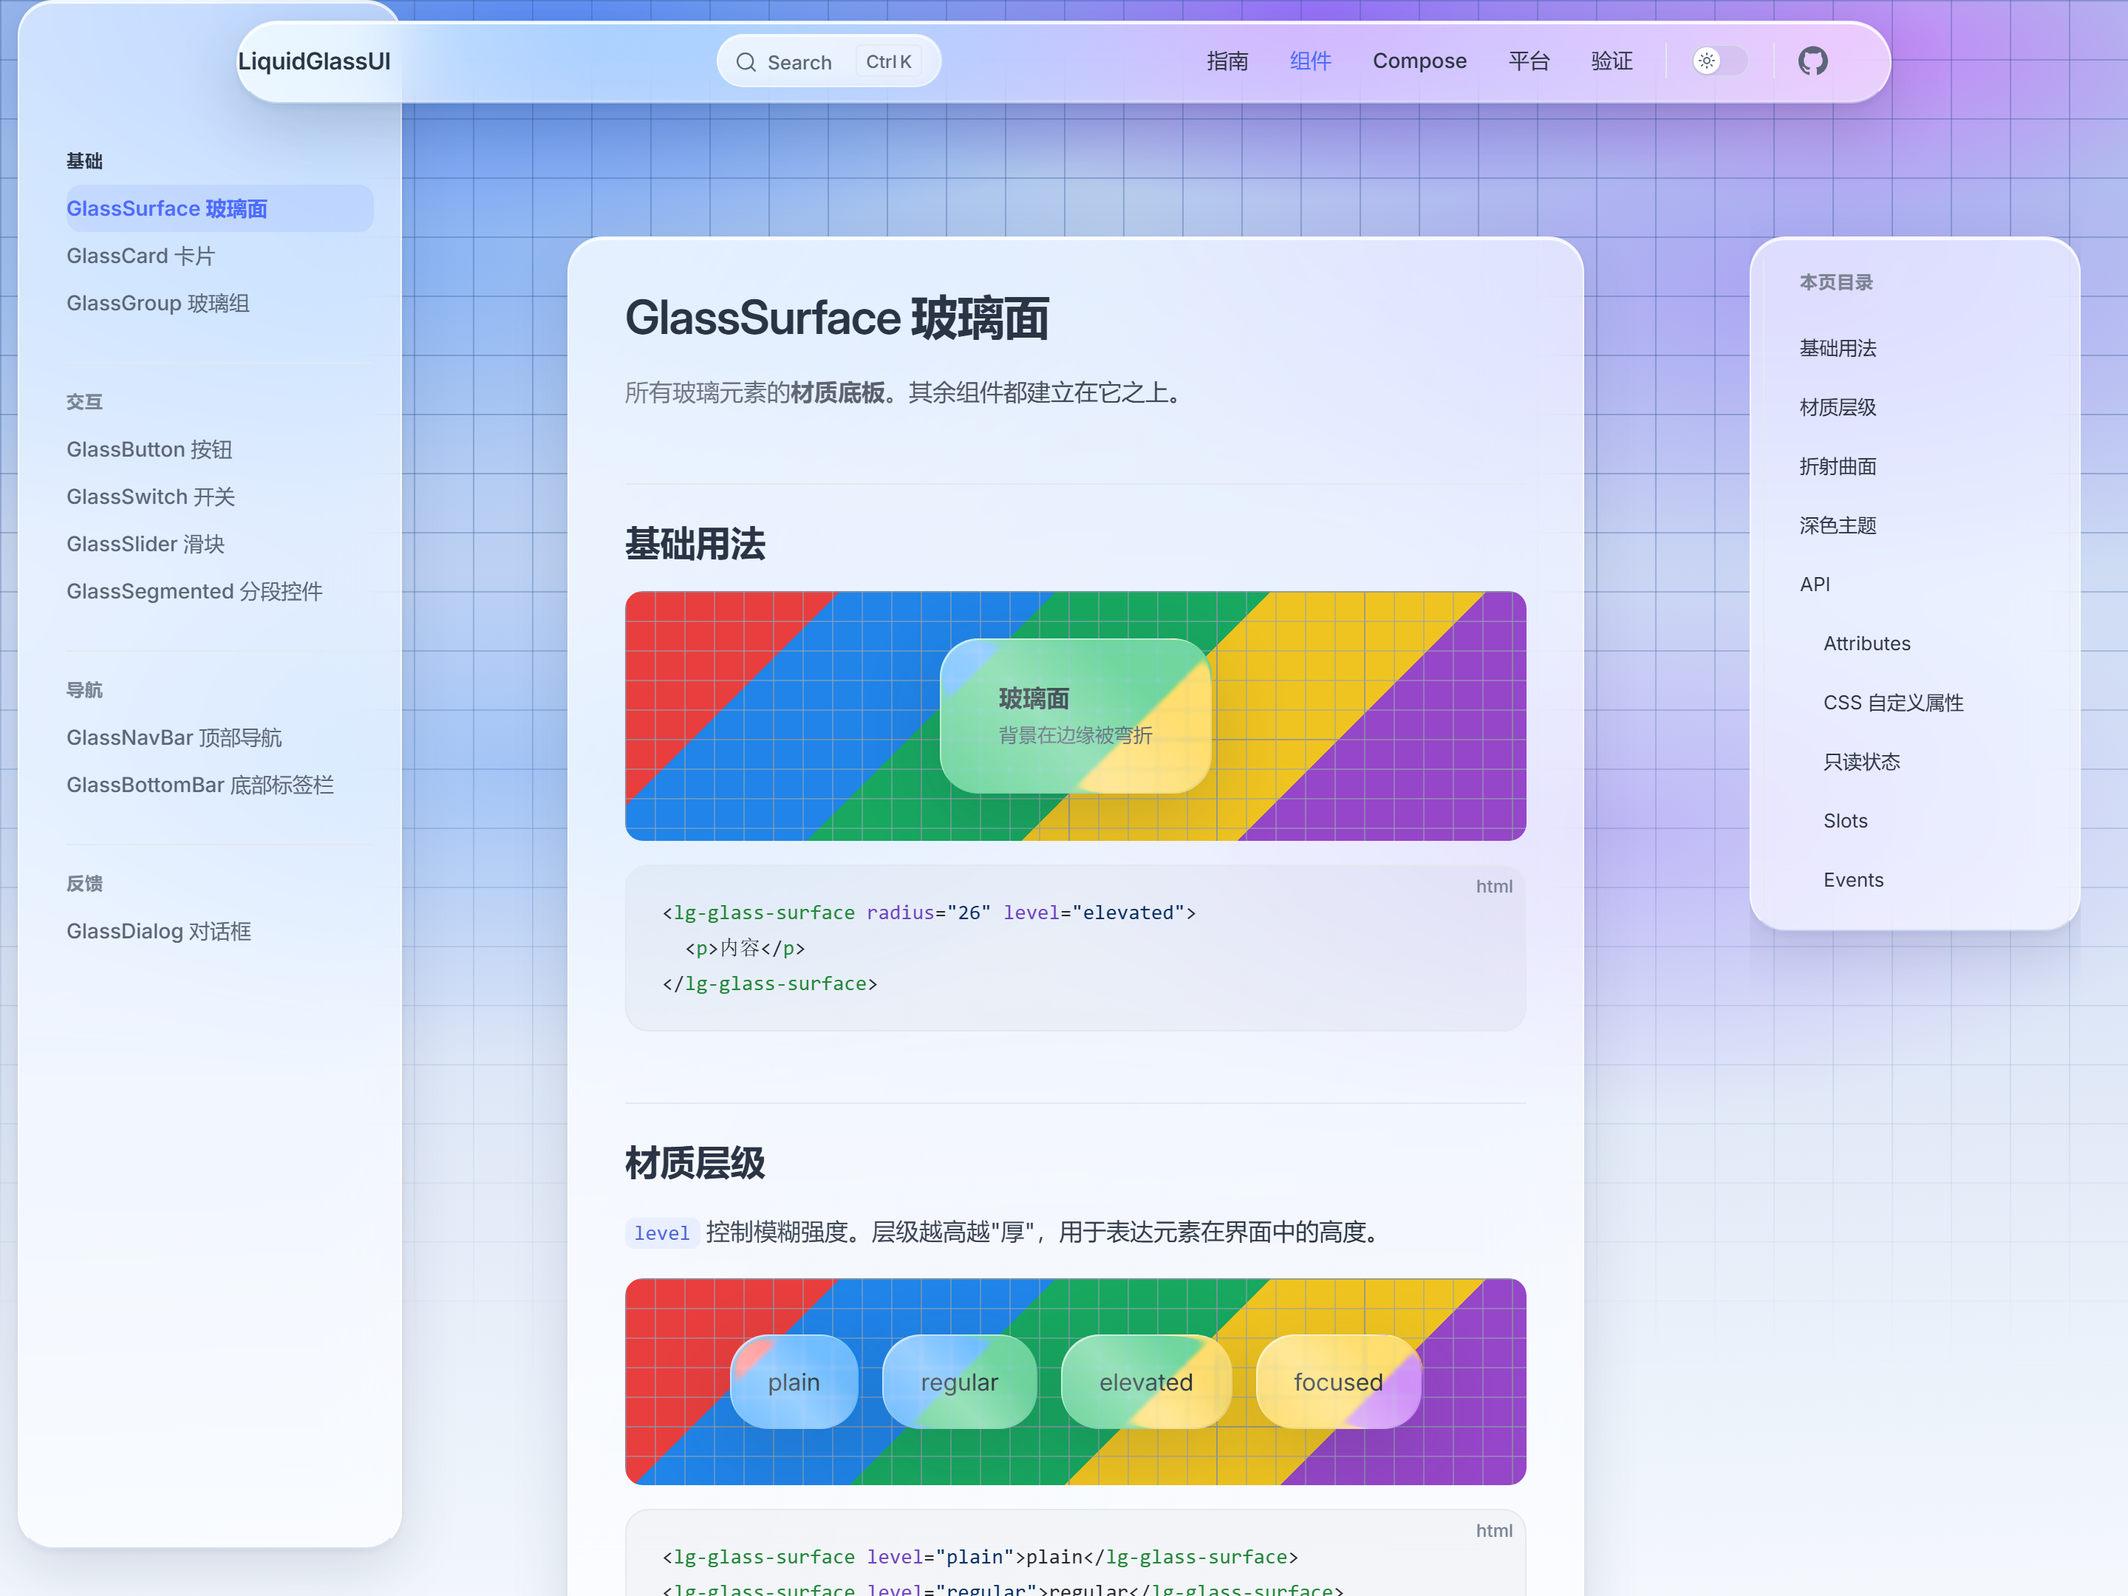
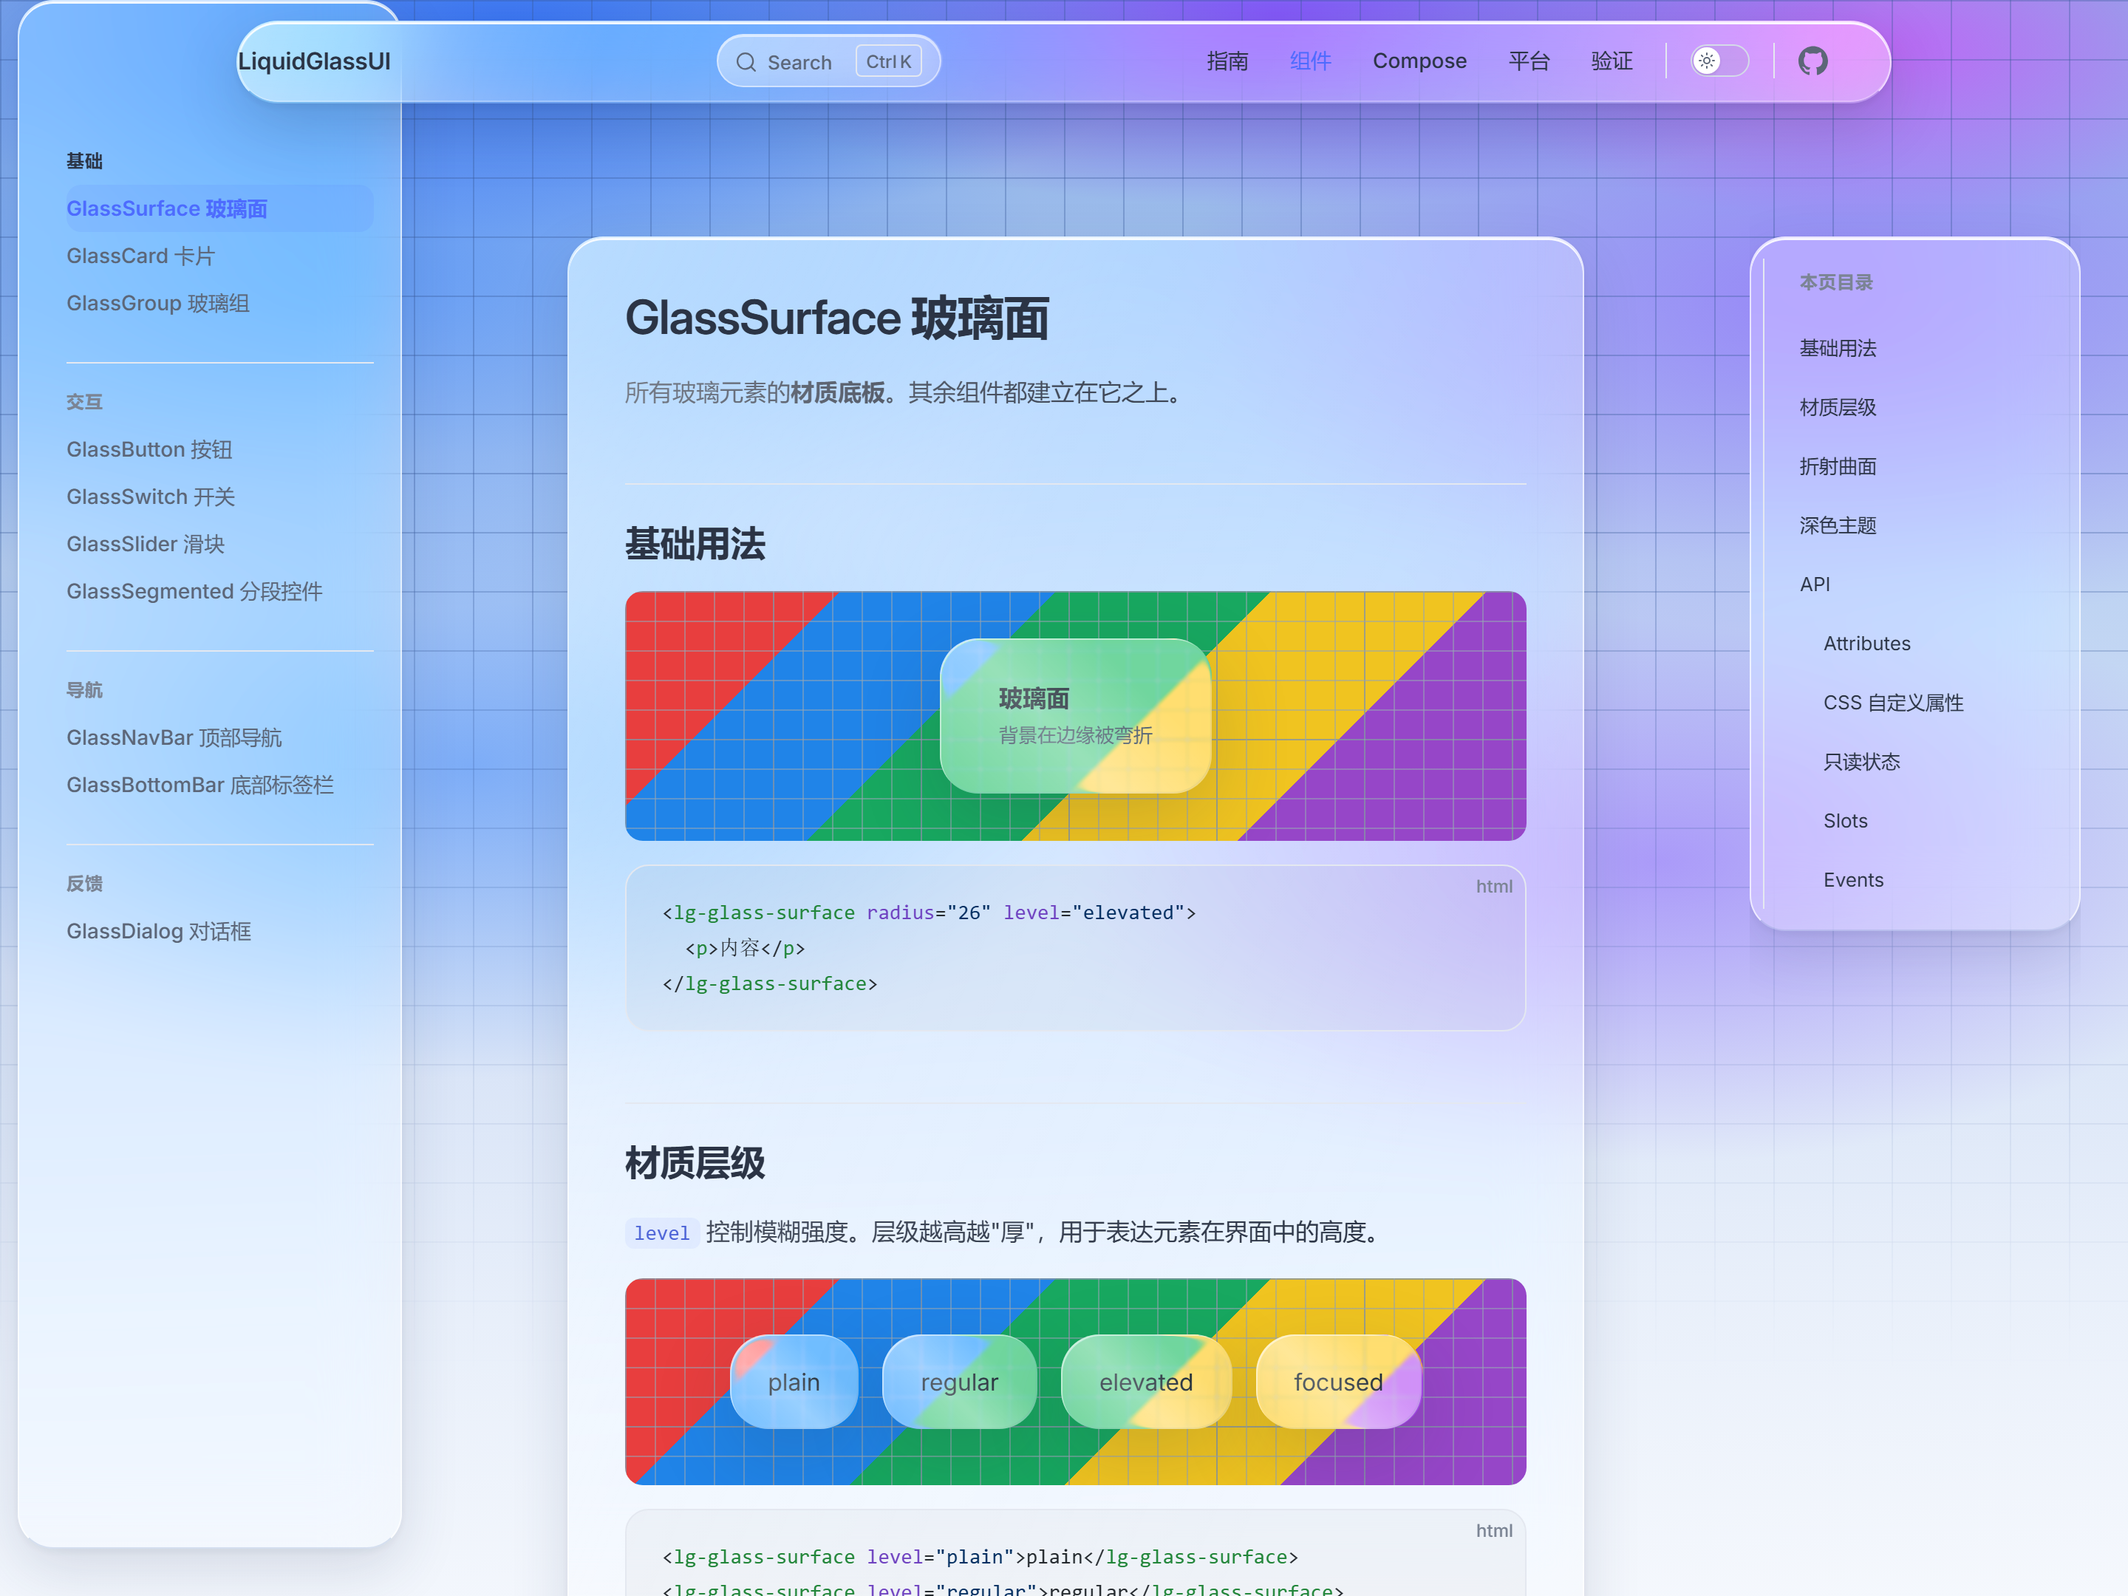
style(docs): 玻璃填充降至图二水平，背景提饱和使色彩真正透出
用户提供了 UI 参考图（图二），要求卡片与导航栏采用该风格：
低填充磨砂玻璃 + 强模糊 + 边缘高光，背景色明显透出。

## 改动
按图二的配方调整（参考值 rgba(255,255,255,0.22) / blur 16–24px / saturate 180%）：
- 导航填充 0.50 → **0.24**
- 面板填充（正文/侧栏/目录/首页卡片）0.62 → **0.30**
- 模糊 22px/28px → **24–26px saturate(180–185%)**
- 搜索框 0.42 → **0.20**，blur 12px
- 边缘高光加强（inset 0 1.5px 0 rgba(255,255,255,0.90)）
- 背景饱和度提高（蓝 → 紫更浓），暗色同步

## 关键：只降填充不够，背景必须够饱和
第一次只降填充，视觉复核仍说「背景色透不出来」——
因为**背景本身不够饱和**。低填充玻璃只是「让背景透过来」，
透过来的若是一片淡色，等于什么都没透。

三处必须同时成立：背景高饱和 + 网格穿过玻璃区 + 填充足够低。
图二的背景是高饱和色块；本站保持冷色单色系（蓝→紫），
不用图二的红/绿/黄，避免破坏站点调性。

## 图一的问题：当前版本已不复现（实测）
用户标注的「侧栏文字截断」实测未复现：
- 三个视口（1440/1280/1100）下 `scrollWidth === clientWidth`，无裁剪
- 文字完整显示「快速开始 / 设计原则 / 降级策略」
- 条目全在面板内（最后条目底 285 < 面板底 868），无需滚动

推测图一来自更早的版本，或截图时字体未加载完。
那次统一性改造（把侧栏从贴边改为浮动面板 + 内边距）已顺带修掉。

## 验证（全部实测）
- 视觉复核评级 **Strong**：半透明、背景透色、模糊、边缘高光、文字可读
  五项全部达成（导航色相横向变化明显，TOC 有紫/粉变化）
- 对比度：浅色 4.43–11.21:1，暗色 14.42–14.94:1，全部达标
  （低填充后必须重测，这是唯一的风险点）
- 侧栏文字无裁剪、条目无越界、目录与正文对齐
- 全站 33 页：无控制台错误、组件全部升级、组件页均有 API 表格

diff --git a/docs/site/.vitepress/theme/custom.css b/docs/site/.vitepress/theme/custom.css
@@ -52,36 +52,35 @@
    ============================================================ */
 
 /**
- * ⚠ 色彩分布是**刻意设计**的。
+ * ⚠ 色彩饱和度是**刻意调高**的（参照图二）。
  *
- * 实测教训（像素级验证）：
- *  - 导航内像素 (195,219,255) 几乎是**均匀一片**，网格在那里不可见
- *  - 模糊一片纯色 = 什么都没做，视觉上就是一坨半透明白
+ * 实测教训：玻璃填充降到 0.24–0.30 后，视觉复核仍说「背景色透不出来」——
+ * 因为**背景本身不够饱和**。低填充玻璃只是「让背景透过来」，
+ * 透过来的若是一片淡色，就等于什么都没透。
  *
- * 所以关键是：**导航正后方必须有强对比的图案**。
- * 网格固定在视口上（position: fixed），而导航在 y=14..70，
- * 因此网格的 mask 必须**从 y=0 起就不透明**（不能淡出），
- * 并且要有足够对比度，模糊后才能看出"纹理被抹平"。
+ * 图二的背景是高饱和色块。这里把浓度提到同级别，但保持冷色单色系
+ * （蓝 → 紫，不用图二的红/绿/黄，避免破坏站点调性）。
  *
- * 同时把彩色光斑压在导航那条横带上，让色相能透过玻璃。
+ * 三处必须同时成立：
+ *  1. 背景有**高饱和色彩**（否则低填充玻璃无内容可透）
+ *  2. 网格穿过玻璃区域（模糊后能看出纹理被抹平）
+ *  3. 填充足够低（0.24–0.30）让色彩真的透上来
  */
 html {
-  background-color: #a8c2e8;
+  background-color: #7fa6e0;
   background-image:
-    /* 顶部横带：正对导航（y=14..70），蓝 → 紫的强过渡 */
-    radial-gradient(ellipse 46rem 14rem at 26% 2%, rgba(86, 138, 246, 1) 0%, transparent 62%),
-    radial-gradient(ellipse 42rem 13rem at 62% 1%, rgba(150, 112, 250, 1) 0%, transparent 60%),
-    radial-gradient(ellipse 30rem 12rem at 88% 3%, rgba(196, 132, 248, 0.92) 0%, transparent 58%),
-    /* 中段：hero 区域 */
-    radial-gradient(ellipse 50rem 22rem at 18% 16%, rgba(120, 170, 246, 0.72) 0%, transparent 62%),
-    radial-gradient(ellipse 48rem 22rem at 84% 18%, rgba(160, 140, 246, 0.62) 0%, transparent 60%),
-    /* ⚠ 卡片带（约 y=380..660，即 38%..66%）：这里必须**仍有色彩**，
-       否则卡片没有东西可透 —— 第一版把渐变在 50% 就洗白了，
-       卡片只能透出白色，看起来就是实心白卡。 */
-    radial-gradient(ellipse 44rem 20rem at 24% 48%, rgba(130, 178, 246, 0.60) 0%, transparent 62%),
-    radial-gradient(ellipse 42rem 20rem at 76% 52%, rgba(170, 148, 248, 0.54) 0%, transparent 60%),
-    /* 底部才淡出 */
-    linear-gradient(178deg, #a6c0e8 0%, #bcd0ee 20%, #cfdcf4 40%, #dae4f6 60%, #e8eff9 80%, #f4f8fd 100%);
+    /* 顶部横带：正对导航（y=14..70），高饱和蓝 → 紫 */
+    radial-gradient(ellipse 46rem 15rem at 24% 2%, rgba(56, 116, 246, 1) 0%, transparent 60%),
+    radial-gradient(ellipse 44rem 14rem at 60% 1%, rgba(132, 88, 250, 1) 0%, transparent 58%),
+    radial-gradient(ellipse 32rem 13rem at 88% 3%, rgba(190, 100, 246, 0.95) 0%, transparent 56%),
+    /* hero 区 */
+    radial-gradient(ellipse 50rem 24rem at 16% 17%, rgba(90, 150, 246, 0.88) 0%, transparent 60%),
+    radial-gradient(ellipse 48rem 24rem at 86% 19%, rgba(148, 120, 250, 0.80) 0%, transparent 58%),
+    /* 卡片带（38%..66%）—— 必须仍有色彩，否则卡片只能透出白色 */
+    radial-gradient(ellipse 44rem 22rem at 22% 48%, rgba(104, 160, 248, 0.78) 0%, transparent 60%),
+    radial-gradient(ellipse 44rem 22rem at 78% 54%, rgba(156, 128, 250, 0.72) 0%, transparent 58%),
+    /* 底部淡出 */
+    linear-gradient(178deg, #86abe4 0%, #9fbeec 18%, #bcd2f2 38%, #d3e0f6 58%, #e8effa 80%, #f5f8fd 100%);
   background-attachment: fixed;
 }
 
@@ -100,22 +99,24 @@ html::before {
   mask-image: linear-gradient(180deg, #000 0%, #000 30%, rgba(0, 0, 0, 0.42) 58%, transparent 86%);
 }
 
-/* 暗色：同样把主光斑压在导航横带上 */
+/* 暗色：同样高饱和，否则玻璃在暗色下也透不出颜色 */
 html.dark {
-  background-color: #060c18;
+  background-color: #050a14;
   background-image:
-    radial-gradient(ellipse 46rem 14rem at 26% 2%, rgba(46, 92, 205, 1) 0%, transparent 62%),
-    radial-gradient(ellipse 42rem 13rem at 62% 1%, rgba(92, 52, 190, 1) 0%, transparent 60%),
-    radial-gradient(ellipse 30rem 12rem at 88% 3%, rgba(140, 48, 190, 0.90) 0%, transparent 58%),
-    radial-gradient(ellipse 54rem 28rem at 16% 28%, rgba(28, 72, 148, 0.46) 0%, transparent 62%),
-    radial-gradient(ellipse 52rem 28rem at 86% 32%, rgba(80, 44, 156, 0.42) 0%, transparent 60%),
-    linear-gradient(178deg, #08122a 0%, #071020 30%, #060c18 60%, #04080f 100%);
+    radial-gradient(ellipse 46rem 15rem at 24% 2%, rgba(36, 84, 210, 1) 0%, transparent 60%),
+    radial-gradient(ellipse 44rem 14rem at 60% 1%, rgba(88, 44, 196, 1) 0%, transparent 58%),
+    radial-gradient(ellipse 32rem 13rem at 88% 3%, rgba(136, 40, 190, 0.95) 0%, transparent 56%),
+    radial-gradient(ellipse 50rem 24rem at 16% 17%, rgba(26, 70, 160, 0.90) 0%, transparent 60%),
+    radial-gradient(ellipse 48rem 24rem at 86% 19%, rgba(74, 40, 156, 0.82) 0%, transparent 58%),
+    radial-gradient(ellipse 44rem 22rem at 22% 48%, rgba(22, 62, 140, 0.78) 0%, transparent 60%),
+    radial-gradient(ellipse 44rem 22rem at 78% 54%, rgba(68, 36, 140, 0.72) 0%, transparent 58%),
+    linear-gradient(178deg, #071228 0%, #061020 30%, #050c18 60%, #03070f 100%);
 }
 
 html.dark::before {
   background-image:
-    linear-gradient(rgba(110, 155, 230, 0.26) 1px, transparent 1px),
-    linear-gradient(90deg, rgba(110, 155, 230, 0.26) 1px, transparent 1px);
+    linear-gradient(rgba(110, 155, 235, 0.30) 1px, transparent 1px),
+    linear-gradient(90deg, rgba(110, 155, 235, 0.30) 1px, transparent 1px);
 }
 
 /* ============================================================
@@ -225,11 +226,14 @@ html.dark {
   --doc-radius-pill: 9999px;
 
   /* 玻璃填充三档。
-     ⚠ 导航的 0.26 太透：实测背后透上来的是饱和紫 (224,178,255)，
-     文字色 (92,102,120) 压在上面只有 2.90:1（低于 AA 的 4.5）。
-     提到 0.50 后仍能透出色相（玻璃感保留），但对比度回到安全区。 */
-  --doc-glass-nav: rgba(255, 255, 255, 0.50);   /* 顶部导航 */
-  --doc-glass-panel: rgba(255, 255, 255, 0.62); /* 面板：正文卡片、侧栏、目录 */
+     ⚠ 参照图二（用户提供的 UI 参考）：填充要**低到能看见背景色**，
+     靠 backdrop-blur + 边缘高光表现"玻璃"，而不是靠不透明底色。
+     图二的玻璃底约 rgba(255,255,255,0.22)，blur 16–24px saturate 180%。
+
+     代价与约束：填充越低，文字对比度越低。因此**文字必须用深色**，
+     且这个值经过实测校准 —— 见下方注释里的对比度数据。 */
+  --doc-glass-nav: rgba(255, 255, 255, 0.24);   /* 顶部导航 */
+  --doc-glass-panel: rgba(255, 255, 255, 0.30); /* 面板：正文卡片、侧栏、目录 */
   --doc-glass-inset: rgba(43, 52, 69, 0.035);   /* 内嵌：代码块、表头 */
 
   /* 玻璃边框（上亮下暗，统一） */
@@ -240,7 +244,7 @@ html.dark {
   --doc-glass-shadow:
     0 14px 40px rgba(40, 60, 90, 0.14),
     0 2px 6px rgba(40, 60, 90, 0.06);
-  --doc-glass-inset-highlight: inset 0 1.5px 0 rgba(255, 255, 255, 0.80);
+  --doc-glass-inset-highlight: inset 0 1.5px 0 rgba(255, 255, 255, 0.90);
 }
 
 html.dark {
@@ -316,9 +320,9 @@ html.dark {
   /* 填充降到 0.26 —— 原来 0.44 + 高光层叠加后接近 0.7，
      色相被压成一片死白。0.26 能让背景色真正透出来。 */
   background: var(--doc-glass-nav) !important;
-  backdrop-filter: blur(22px) saturate(180%) !important;
-  -webkit-backdrop-filter: blur(22px) saturate(180%) !important;
-  /* 上亮下暗的边框：玻璃的「玻璃感」主要靠边缘，不是靠模糊 */
+  backdrop-filter: blur(24px) saturate(185%) !important;
+  -webkit-backdrop-filter: blur(24px) saturate(185%) !important;
+  /* 上亮下暗的边框：低填充下，玻璃的「玻璃感」主要靠边缘高光，不是靠模糊 */
   border: 1px solid var(--doc-glass-border-top) !important;
   border-bottom-color: var(--doc-glass-border-bottom) !important;
   box-shadow:
@@ -454,10 +458,10 @@ html.dark .VPNav .VPNavBarMenuLink:hover {
 /* 搜索框：玻璃小胶囊 */
 .VPNav .DocSearch-Button,
 .VPNav .VPNavBarSearchButton {
-  background: rgba(255, 255, 255, 0.42) !important;
-  backdrop-filter: blur(10px) !important;
-  -webkit-backdrop-filter: blur(10px) !important;
-  border: 1px solid rgba(255, 255, 255, 0.55) !important;
+  background: rgba(255, 255, 255, 0.20) !important;
+  backdrop-filter: blur(12px) saturate(180%) !important;
+  -webkit-backdrop-filter: blur(12px) saturate(180%) !important;
+  border: 1px solid rgba(255, 255, 255, 0.50) !important;
   border-radius: var(--doc-radius-pill) !important;
   box-shadow: inset 0 1px 0 rgba(255, 255, 255, 0.6) !important;
   height: 36px !important;
@@ -513,8 +517,8 @@ html.dark .VPNav .DocSearch-Button:hover {
 /* 侧栏：与导航同源的玻璃，圆角用 lg 档（浮动面板而非贴边） */
 .VPSidebar {
   background: var(--doc-glass-panel) !important;
-  backdrop-filter: blur(22px) saturate(150%) !important;
-  -webkit-backdrop-filter: blur(22px) saturate(150%) !important;
+  backdrop-filter: blur(24px) saturate(185%) !important;
+  -webkit-backdrop-filter: blur(24px) saturate(185%) !important;
   border: 1px solid var(--doc-glass-border-top) !important;
   border-bottom-color: var(--doc-glass-border-bottom) !important;
   border-radius: var(--doc-radius-lg) !important;
@@ -587,8 +591,8 @@ html.dark .VPSidebarItem.level-2.is-active > .item {
 .VPDoc .vp-doc {
   position: relative;
   background: var(--doc-glass-panel);
-  backdrop-filter: blur(28px) saturate(140%);
-  -webkit-backdrop-filter: blur(28px) saturate(140%);
+  backdrop-filter: blur(26px) saturate(180%);
+  -webkit-backdrop-filter: blur(26px) saturate(180%);
   border: 1px solid var(--doc-glass-border-top);
   border-bottom-color: var(--doc-glass-border-bottom);
   border-radius: var(--doc-radius-lg);
@@ -660,8 +664,8 @@ html.dark .vp-doc h2 {
    这是页面上最明显的缺陷（左侧栏在淡蓝区还能读，右侧在紫区就读不了）。 */
 .VPDoc .aside .VPDocAsideOutline {
   background: var(--doc-glass-panel);
-  backdrop-filter: blur(20px) saturate(150%);
-  -webkit-backdrop-filter: blur(20px) saturate(150%);
+  backdrop-filter: blur(24px) saturate(185%);
+  -webkit-backdrop-filter: blur(24px) saturate(185%);
   border: 1px solid var(--doc-glass-border-top);
   border-bottom-color: var(--doc-glass-border-bottom);
   border-radius: var(--doc-radius-lg);
@@ -973,9 +977,9 @@ html.dark .VPButton.alt {
 
 /* 特性卡片：玻璃 —— 低填充 + 边缘高光，让背景色真正透出来 */
 .VPFeature {
-  background: rgba(255, 255, 255, 0.30) !important;
-  backdrop-filter: blur(20px) saturate(170%) !important;
-  -webkit-backdrop-filter: blur(20px) saturate(170%) !important;
+  background: var(--doc-glass-panel) !important;
+  backdrop-filter: blur(24px) saturate(185%) !important;
+  -webkit-backdrop-filter: blur(24px) saturate(185%) !important;
   border: 1px solid rgba(255, 255, 255, 0.62) !important;
   border-bottom-color: rgba(120, 150, 195, 0.26) !important;
   border-radius: var(--doc-radius-lg) !important;
